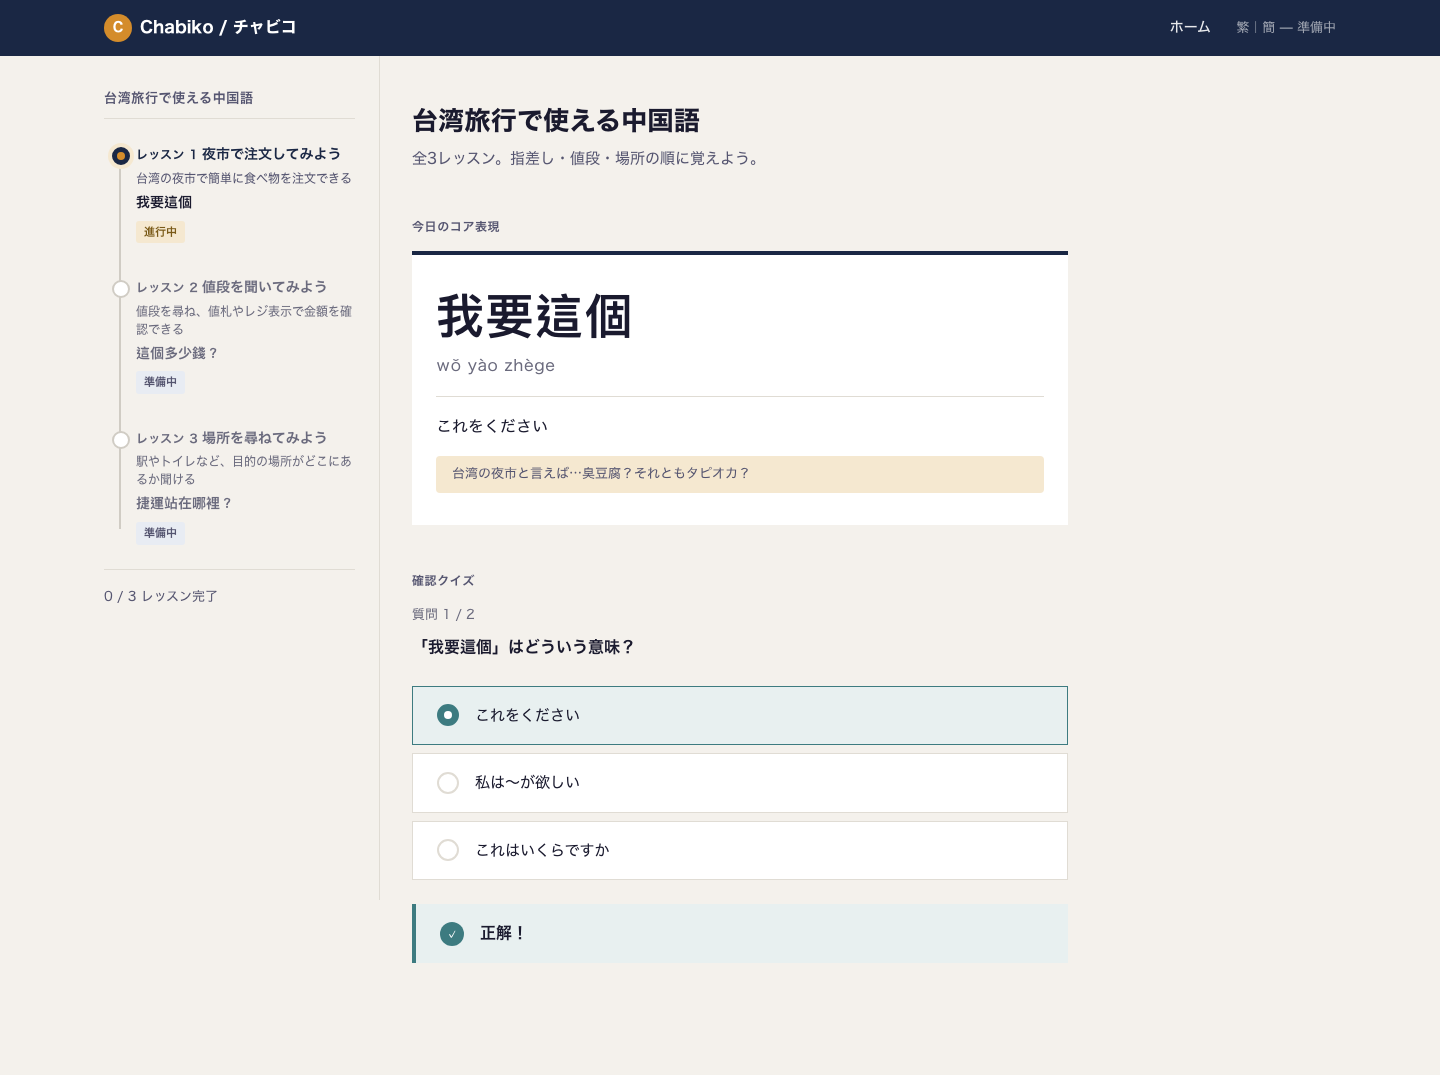
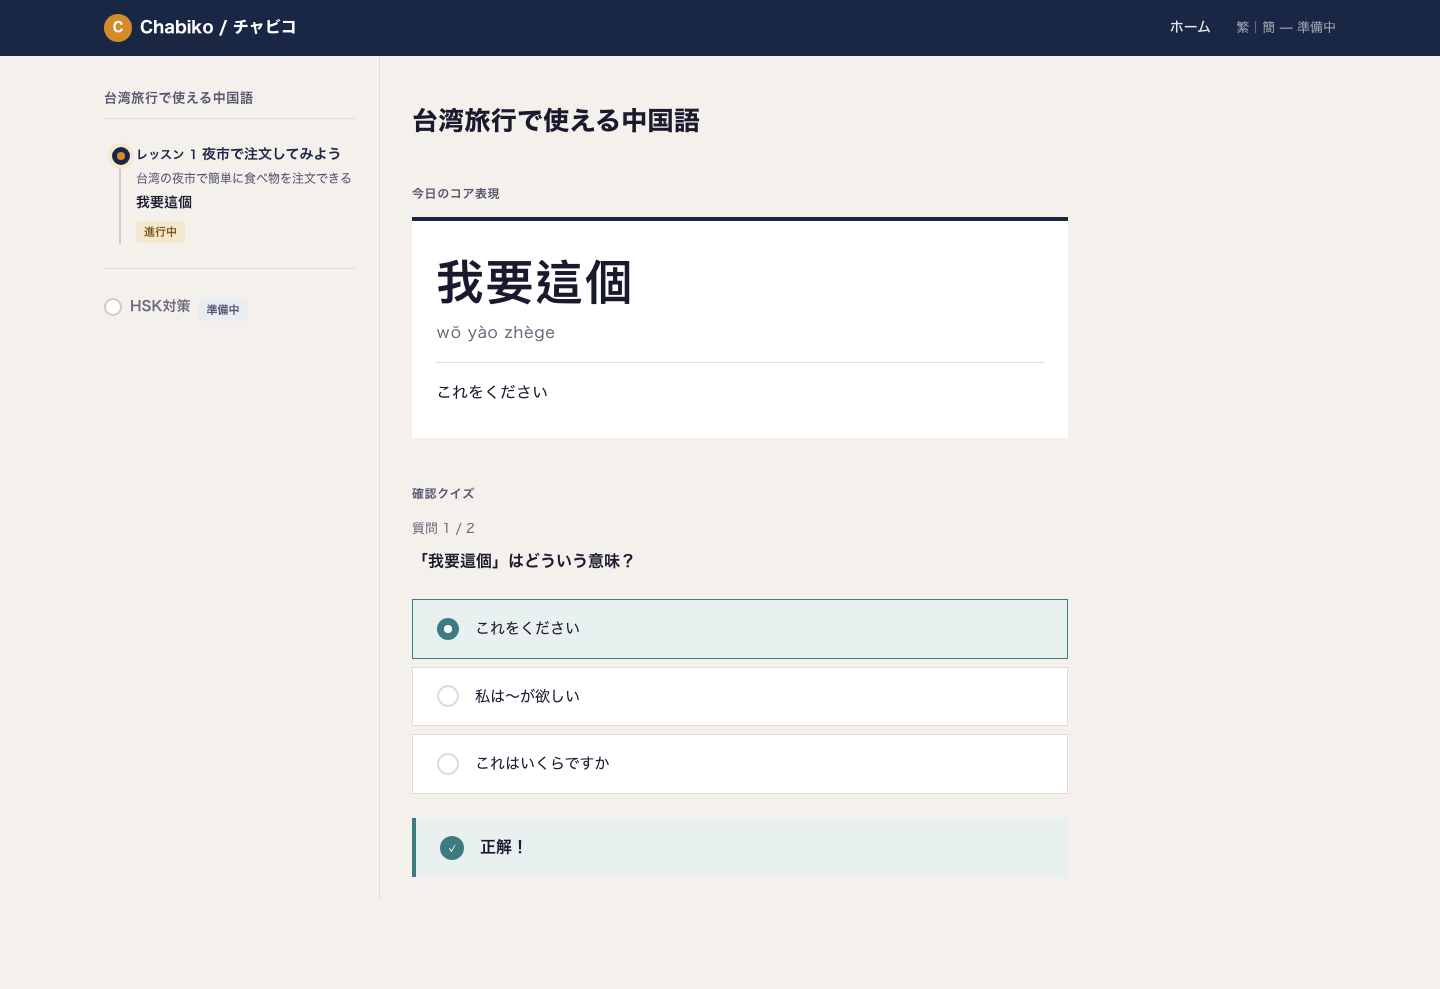
fix: remove non-fixture content, add HSK対策 pending path (#59)
Address final-review fixture blocker:
- Remove Lesson 2/3 stations (non-fixture invented content)
- Remove invented path description and hook text
- Add HSK対策 as pending path with 準備中 status
- Remove unused CSS for removed elements
- Update design doc to match current implementation
- Regenerate mobile and desktop screenshots

All learner-facing content now verbatim from prototype-content.md.
Direction C visual language (route/timeline, indigo+amber, two-column)
preserved.

diff --git a/docs/design/prototypes/direction-c-city-exploration.html b/docs/design/prototypes/direction-c-city-exploration.html
@@ -154,12 +154,12 @@
     padding-left: 32px;
   }
 
-  /* Vertical route line — solid before active, continues */
+  /* Vertical route line */
   .route-timeline::before {
     content: '';
     position: absolute;
     top: 14px;
-    bottom: 16px;
+    bottom: 0;
     left: 15px;
     width: 2px;
     background: var(--color-route-line);
@@ -229,18 +229,12 @@
   .station--active .station__title {
     color: var(--color-primary);
   }
-  .station--upcoming .station__title {
-    color: var(--color-text-muted);
-  }
 
   .station__can-do {
     font-size: 0.75rem;
     color: var(--color-text-secondary);
     margin-top: 2px;
     line-height: 1.5;
-  }
-  .station--upcoming .station__can-do {
-    color: var(--color-text-muted);
   }
 
   .station__example {
@@ -249,9 +243,6 @@
     font-weight: 600;
     color: var(--color-text);
     margin-top: 4px;
-  }
-  .station--upcoming .station__example {
-    color: var(--color-text-muted);
   }
 
   .station__status {
@@ -271,16 +262,35 @@
     color: var(--color-text-secondary);
   }
 
-  /* Progress summary */
-  .progress-summary {
+  /* Pending path (HSK対策) */
+  .pending-path {
     display: flex;
     align-items: center;
     gap: var(--space-sm);
     margin-top: var(--space-lg);
     padding-top: var(--space-md);
     border-top: 1px solid var(--color-border);
-    font-size: 0.8125rem;
-    color: var(--color-text-secondary);
+  }
+  .pending-path__dot {
+    width: 18px;
+    height: 18px;
+    border-radius: 50%;
+    border: 2px solid var(--color-route-line);
+    background: var(--color-surface);
+    flex-shrink: 0;
+    position: relative;
+  }
+  .pending-path__body {
+    display: flex;
+    align-items: center;
+    gap: var(--space-sm);
+    flex-wrap: wrap;
+    min-height: 44px;
+  }
+  .pending-path__label {
+    font-size: 0.875rem;
+    font-weight: 600;
+    color: var(--color-text-muted);
   }
 
   /* --- Main Content Panel -------------------------------------- */
@@ -297,11 +307,6 @@
     font-weight: 700;
     color: var(--color-text);
     line-height: 1.3;
-  }
-  .path-section__description {
-    font-size: 0.9375rem;
-    color: var(--color-text-secondary);
-    margin-top: var(--space-sm);
   }
 
   /* --- Section Label ------------------------------------------- */
@@ -345,15 +350,6 @@
     margin-top: var(--space-md);
     padding-top: var(--space-md);
     border-top: 1px solid var(--color-border);
-  }
-  .phrase-card__hook {
-    font-size: 0.8125rem;
-    color: var(--color-text-secondary);
-    margin-top: var(--space-md);
-    padding: var(--space-sm) var(--space-md);
-    background: var(--color-accent-light);
-    border-radius: 4px;
-    line-height: 1.6;
   }
 
   /* --- Quiz Section -------------------------------------------- */
@@ -579,33 +575,16 @@
         <div class="station__example" lang="zh-Hant">我要這個</div>
         <span class="station__status station__status--active">進行中</span>
       </div>
+    </div>
 
-      <!-- Station 2 — upcoming / locked -->
-      <div class="station station--upcoming">
-        <span class="station__dot" aria-hidden="true"></span>
-        <div class="station__header">
-          <span class="station__num">レッスン 2</span>
-          <span class="station__title">値段を聞いてみよう</span>
-        </div>
-        <div class="station__can-do">値段を尋ね、値札やレジ表示で金額を確認できる</div>
-        <div class="station__example" lang="zh-Hant">這個多少錢？</div>
-        <span class="station__status station__status--locked">準備中</span>
-      </div>
-
-      <!-- Station 3 — upcoming / locked -->
-      <div class="station station--upcoming">
-        <span class="station__dot" aria-hidden="true"></span>
-        <div class="station__header">
-          <span class="station__num">レッスン 3</span>
-          <span class="station__title">場所を尋ねてみよう</span>
-        </div>
-        <div class="station__can-do">駅やトイレなど、目的の場所がどこにあるか聞ける</div>
-        <div class="station__example" lang="zh-Hant">捷運站在哪裡？</div>
+    <!-- Pending path: HSK対策 -->
+    <div class="pending-path">
+      <span class="pending-path__dot" aria-hidden="true"></span>
+      <div class="pending-path__body">
+        <span class="pending-path__label">HSK対策</span>
         <span class="station__status station__status--locked">準備中</span>
       </div>
     </div>
-
-    <div class="progress-summary">0 / 3 レッスン完了</div>
   </aside>
 
   <!-- ====== Main Content ====== -->
@@ -614,7 +593,6 @@
     <!-- ----- Path Section ----- -->
     <section class="path-section">
       <h1 class="path-section__title">台湾旅行で使える中国語</h1>
-      <p class="path-section__description">全3レッスン。指差し・値段・場所の順に覚えよう。</p>
     </section>
 
     <!-- ----- Phrase Section ----- -->
@@ -624,7 +602,6 @@
         <div class="phrase-card__chinese" lang="zh-Hant">我要這個</div>
         <div class="phrase-card__pinyin" lang="zh-Latn">wǒ yào zhège</div>
         <div class="phrase-card__meaning">これをください</div>
-        <div class="phrase-card__hook">台湾の夜市と言えば…臭豆腐？それともタピオカ？</div>
       </div>
     </section>
 

diff --git a/docs/design/prototypes/direction-c-city-exploration.md b/docs/design/prototypes/direction-c-city-exploration.md
@@ -115,8 +115,7 @@ and learning flow:
 
 1. **Phrase card** — white surface with a 4px deep indigo top border (evoking
    a platform sign header). Chinese phrase dominates at 3rem, pinyin sits below
-   in muted colour, Japanese meaning follows in body weight, and the hook is
-   styled as a compact note.
+   in muted colour, Japanese meaning follows in body weight.
 
 2. **Route stations as lesson list** — each station row integrates the
    timeline dot, lesson title, can-do, and Chinese example. This replaces both
@@ -131,12 +130,12 @@ and learning flow:
    colour alone.
 
 5. **Progress communication** — the route timeline itself is the primary
-   progress indicator, complemented by the textual "0 / 3 レッスン完了"
-   summary. No thin progress bars or percentage indicators.
+   progress indicator, with the pending path (HSK対策) shown below
+   as a planned expansion. No thin progress bars or percentage indicators.
 
-6. **Desktop sidebar route** — shows all 3 stations at a glance with the
-   learner's current position highlighted. Functions as a "you are here" map
-   reference.
+6. **Desktop sidebar route** — shows the current active lesson at a glance with
+   the learner's position highlighted and a pending path for reference.
+   Functions as a "you are here" map reference.
 
 7. **Wayfinding micro-details** — subtle directional cues (amber dot on active
    station, line solid/dotted shift) that reward attention without distracting
